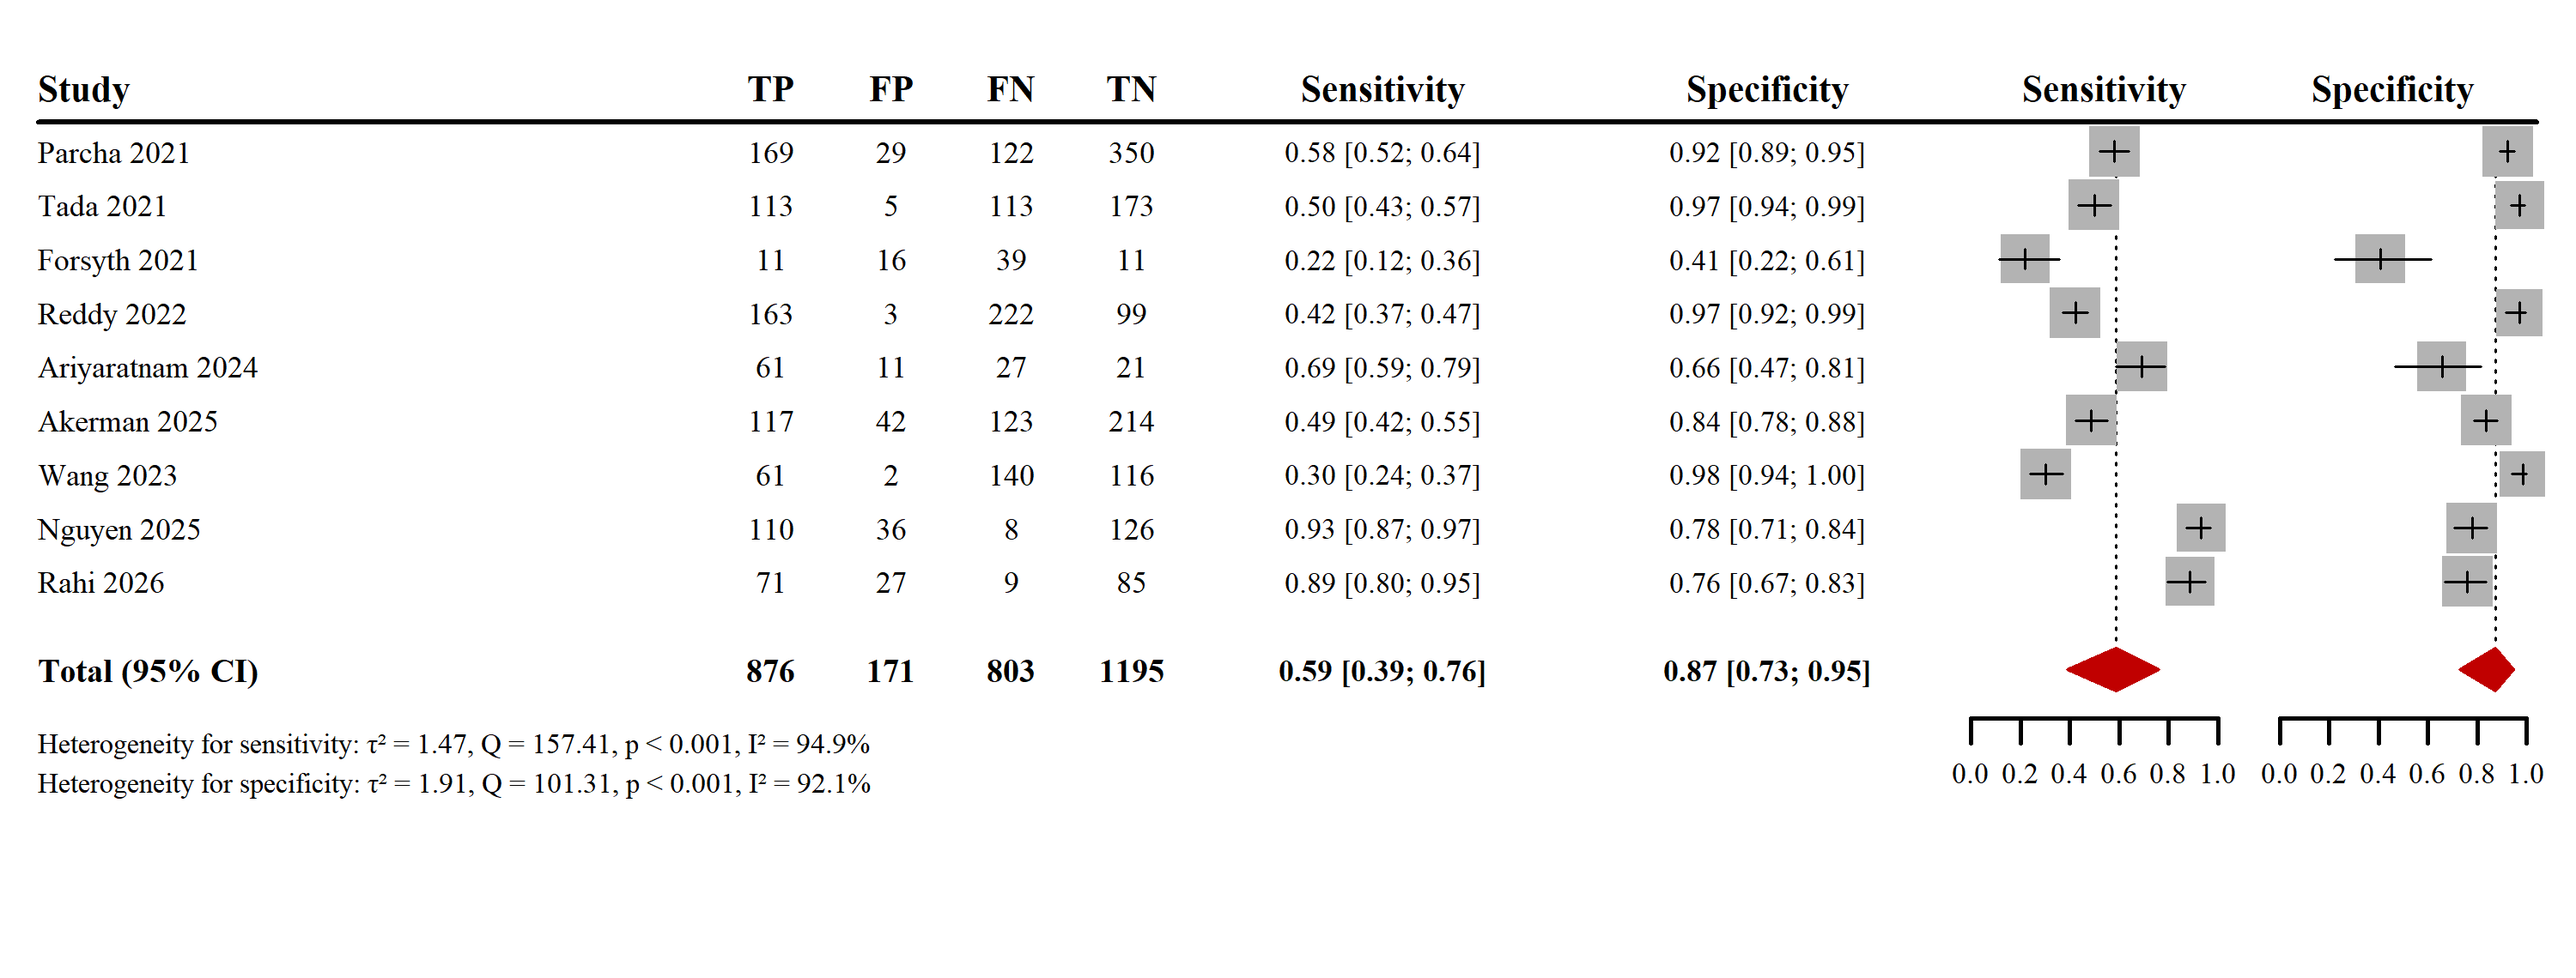
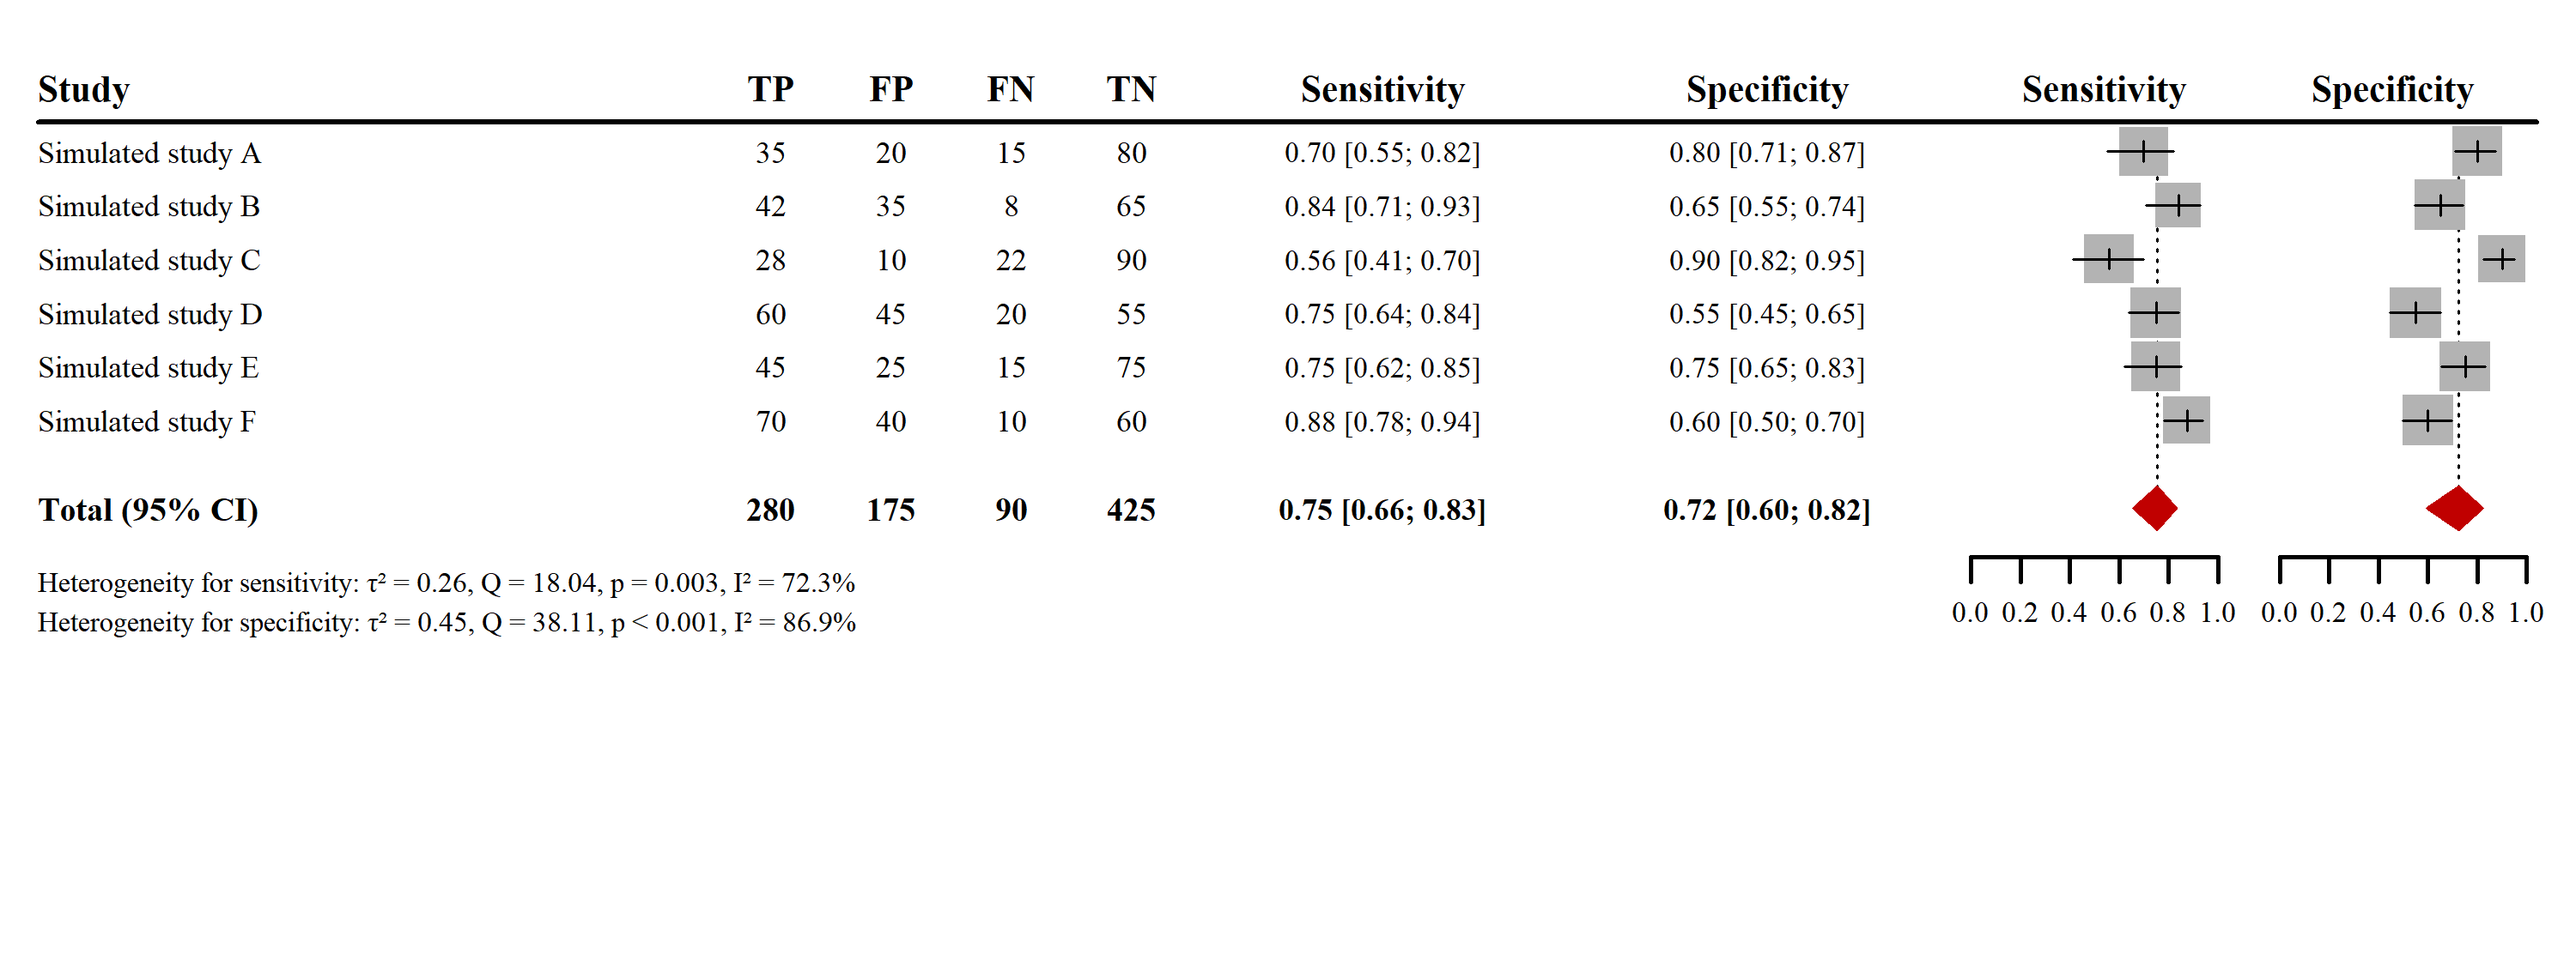
Replace example data with simulated data

diff --git a/README.md b/README.md
@@ -22,7 +22,7 @@ library(dtaMetaBridge)
 
 ## 基本工作流
 
-每行必须是一项相互独立的研究，且含有研究名、TP、FP、FN、TN；四格表为非负整数，每项研究都必须至少包含一名患病与一名非患病受试者。
+每行必须是一项相互独立的研究，且含有研究名、TP、FP、FN、TN；四格表为非负整数，每项研究都必须至少包含一名患病与一名非患病受试者。包内 `example-dta.csv` 为模拟数据，仅用于演示工作流和绘图，不代表任何已发表或未发表研究。
 
 ```r
 dta <- read.csv("example-dta.csv")
